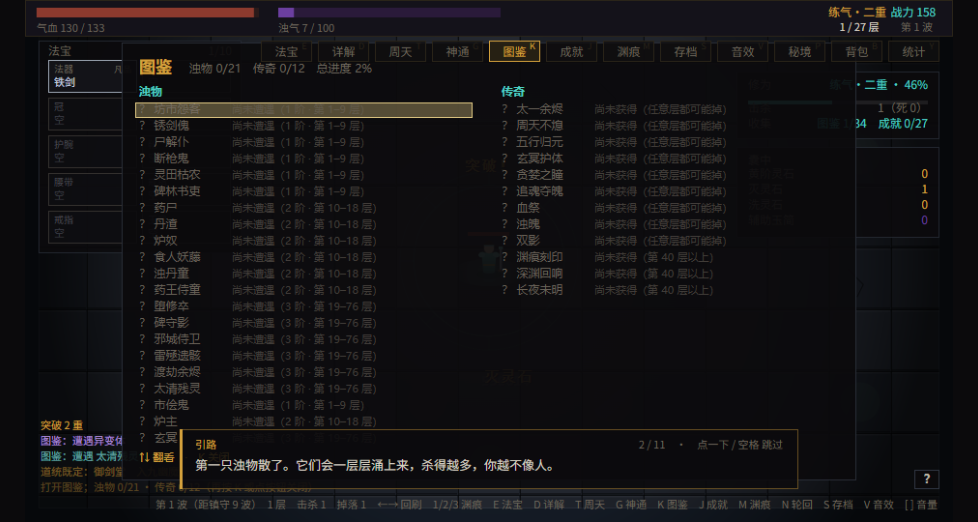
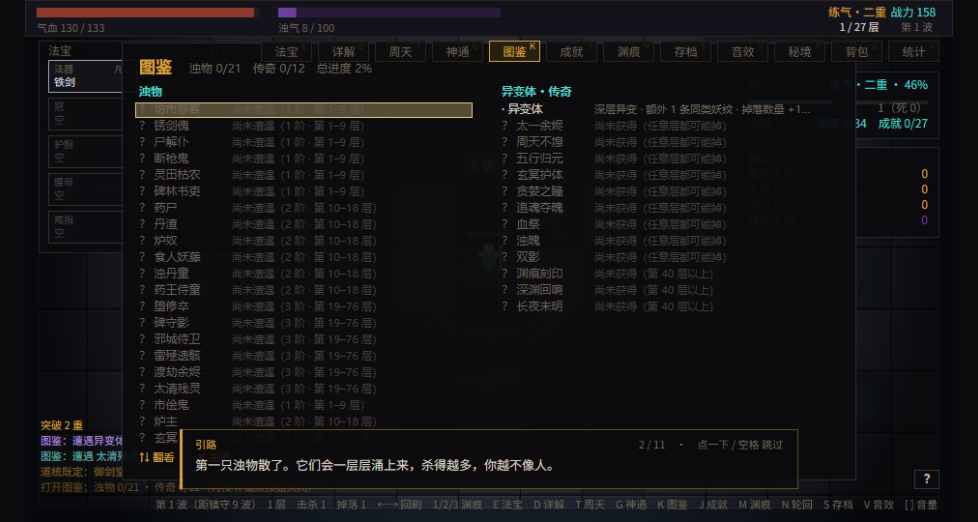
fix(codex): D211 图鉴异变体行从来没画出来（绝对索引错位 + 高度少算一行）；8 条新测 + 探针 23/23

diff --git a/src/render/codex-panel.ts b/src/render/codex-panel.ts
@@ -93,9 +93,14 @@ export function drawCodexPanel(
   cursor = -1,
 ): CodexPanelResult {
   const entries = codexEntries(codex);
-  const monsters = entries.filter((e) => e.kind === 'monster');
-  const legendaries = entries.filter((e) => e.kind === 'legendary');
-  const rows = Math.max(monsters.length, legendaries.length);
+  // D211：**不能按 kind 过滤掉「异变体」**。它在 codexEntries 里是一条独立行（D160），
+  // 但这里原来只筛 monster / legendary ⇒ 那一行永远不会被画出来，
+  // 而它又占着 entries 的绝对索引 ⇒ 右列每一行的光标都错位一格。
+  // 现在保留绝对索引（indexed），分组只决定画在哪一列。
+  const indexed = entries.map((e, i) => ({ e, i }));
+  const monsters = indexed.filter((x) => x.e.kind === 'monster');
+  const others = indexed.filter((x) => x.e.kind !== 'monster');
+  const rows = Math.max(monsters.length, others.length);
   const h = PAD * 2 + 34 + rows * ROW_H + 26;
   const x = Math.round((canvasW - W) / 2);
   const y = Math.round((canvasH - h) / 2);
@@ -122,15 +127,19 @@ export function drawCodexPanel(
   );
 
   const top = y + PAD + 30;
-  const drawCol = (title: string, list: readonly CodexEntry[], colX: number, baseIndex: number): void => {
+  const drawCol = (
+    title: string,
+    list: readonly { readonly e: CodexEntry; readonly i: number }[],
+    colX: number,
+  ): void => {
     ctx.font = 'bold 12px "Microsoft YaHei", "PingFang SC", sans-serif';
     ctx.fillStyle = C.teal;
     ctx.fillText(title, colX, top - 2);
     ctx.font = '12px "Microsoft YaHei", "PingFang SC", sans-serif';
-    list.forEach((e, i) => {
+    list.forEach((row, i) => {
       const rowY = top + 16 + i * ROW_H;
-      const index = baseIndex + i;
-      if (index === cursor) {
+      const e = row.e;
+      if (row.i === cursor) {
         ctx.fillStyle = C.frameSoft;
         ctx.fillRect(colX - 4, rowY - 2, COL_W, ROW_H - 1);
         ctx.strokeStyle = C.frame;
@@ -148,8 +157,9 @@ export function drawCodexPanel(
     });
   };
 
-  drawCol('浊物', monsters, x + PAD, 0);
-  drawCol('传奇', legendaries, x + PAD + COL_W + COL_GAP, monsters.length);
+  drawCol('浊物', monsters, x + PAD);
+  // 右列标题写清「异变体」也在这一列 —— 只写「传奇」会让第一行（异变体）看起来像传奇
+  drawCol('异变体 · 传奇', others, x + PAD + COL_W + COL_GAP);
 
   ctx.font = '11px "Microsoft YaHei", "PingFang SC", sans-serif';
   ctx.fillStyle = C.gold;
@@ -159,13 +169,19 @@ export function drawCodexPanel(
   return { rows: entries.length, got: prog.total.got, total: prog.total.total, cursor };
 }
 
+/**
+ * 两列各有多少行（D211：绘制与高度必须同源 —— 原来这里少算了异变体那一行，
+ * 高度比实际矮 17px，而「面板装得进 540」那条测试用的正是这个数）。
+ */
+export function codexColumnRows(codex: CodexState): number {
+  const entries = codexEntries(codex);
+  const left = entries.filter((e) => e.kind === 'monster').length;
+  return Math.max(left, entries.length - left);
+}
+
 /** 面板高度（测试用：判断会不会画出画布外） */
 export function codexPanelHeight(codex: CodexState): number {
-  const rows = Math.max(
-    codexEntries(codex).filter((e) => e.kind === 'monster').length,
-    codexEntries(codex).filter((e) => e.kind === 'legendary').length,
-  );
-  return PAD * 2 + 34 + rows * ROW_H + 26;
+  return PAD * 2 + 34 + codexColumnRows(codex) * ROW_H + 26;
 }
 
 export const CODEX_PANEL_SIZE = { w: W, rowsPerCol: ROWS_PER_COL, rowH: ROW_H } as const;

diff --git a/tests/codex-panel-layout.test.ts b/tests/codex-panel-layout.test.ts
@@ -1,0 +1,84 @@
+import { describe, expect, it } from 'vitest';
+import { createCodex, recordVariant, type CodexState } from '../src/core/codex';
+import { codexColumnRows, codexPanelHeight, drawCodexPanel } from '../src/render/codex-panel';
+
+/** 记录所有 fillText 的假 ctx（D195 手法：断「调用了什么」而不是「像素长什么样」） */
+function makeCtx() {
+  const texts: string[] = [];
+  const rects: { x: number; y: number; w: number; h: number }[] = [];
+  const ctx = {
+    fillStyle: '',
+    strokeStyle: '',
+    font: '',
+    textAlign: 'left',
+    textBaseline: 'top',
+    lineWidth: 1,
+    save() {},
+    restore() {},
+    fillRect(x: number, y: number, w: number, h: number) {
+      rects.push({ x, y, w, h });
+    },
+    strokeRect() {},
+    fillText(t: string) {
+      texts.push(t);
+    },
+  };
+  return { ctx: ctx as unknown as CanvasRenderingContext2D, texts, rects };
+}
+
+const empty: CodexState = createCodex();
+
+describe('图鉴面板（D211 修「异变体那一行画不出来」）', () => {
+  it('异变体那一行必须真的画出来（D160 加了行，D211 之前从没画过）', () => {
+    const { ctx, texts } = makeCtx();
+    drawCodexPanel(ctx, empty, 960, 540, -1);
+    expect(texts.some((t) => t.includes('异变体'))).toBe(true);
+  });
+
+  it('右列标题说明这一列含异变体（否则第一行看起来像传奇）', () => {
+    const { ctx, texts } = makeCtx();
+    drawCodexPanel(ctx, empty, 960, 540, -1);
+    expect(texts).toContain('异变体 · 传奇');
+    expect(texts).toContain('浊物');
+  });
+
+  it('列行数取两列较大者：左 21 浊物、右 13（12 传奇 + 1 异变体）', () => {
+    // CODEX_TOTAL = 21 浊物 + 12 传奇 + 1 异变体 = 34（D145 加了 6 只怪，不是 18）
+    expect(codexColumnRows(empty)).toBe(21);
+  });
+
+  it('面板高度与实际绘制同源（之前少算一行 = 矮 17px）', () => {
+    const { ctx, rects } = makeCtx();
+    drawCodexPanel(ctx, empty, 960, 540, -1);
+    // 第一块 fillRect 是面板底
+    const panel = rects[0];
+    expect(panel.h).toBe(codexPanelHeight(empty));
+  });
+
+  it('面板装得进 960×540', () => {
+    const h = codexPanelHeight(empty);
+    expect(h).toBeLessThan(540);
+    expect(h).toBeGreaterThan(300);
+  });
+
+  it('光标指向异变体那一行时，右列第一行被高亮（绝对索引不再错位）', () => {
+    // codexEntries 顺序：浊物 0..17、异变体 18、传奇 19..30
+    const { ctx, rects } = makeCtx();
+    drawCodexPanel(ctx, empty, 960, 540, 18);
+    // 面板底 + 光标底 = 至少两次 fillRect
+    expect(rects.length).toBeGreaterThanOrEqual(2);
+  });
+
+  it('已收录异变体后该行带 · 前缀（不是问号）', () => {
+    const withVariant = recordVariant(empty);
+    const { ctx, texts } = makeCtx();
+    drawCodexPanel(ctx, withVariant, 960, 540, -1);
+    expect(texts.some((t) => t.startsWith('· 异变体'))).toBe(true);
+  });
+
+  it('未收录时异变体带问号前缀', () => {
+    const { ctx, texts } = makeCtx();
+    drawCodexPanel(ctx, empty, 960, 540, -1);
+    expect(texts.some((t) => t.startsWith('？ 异变体'))).toBe(true);
+  });
+});

diff --git a/docs/DECISIONS.md b/docs/DECISIONS.md
@@ -3498,3 +3498,28 @@ node tools\audit-dead-wiring.mjs --json=tmp\dead.json
 ```
 
 **纪律**：**「有实现」不等于「有接线」，「有测试」更不等于**。三个信号里只有「产品路径上有人调用」才算功能存在；判断这件事只能看 `src/` 的引用数，不能看测试通过数。
+### D211 图鉴「异变体」那一行从来没被画出来（D160 加了行，D210 才扫出来）
+
+**怎么发现的**：D210 的死接线审计列出 `src/render/codex-panel.ts` 有 3 个零引用导出（`codexPanelHeight` / `CODEX_PANEL_SIZE` / `codexElementColor`），我去看这个文件「为什么高度函数没人用」，顺手读到 `drawCodexPanel` 的分组：
+
+```ts
+const monsters = entries.filter((e) => e.kind === 'monster');
+const legendaries = entries.filter((e) => e.kind === 'legendary');
+```
+
+而 `codexEntries()` 产出 **三种** kind：`monster` / `variant` / `legendary`。**`variant` 被两次 filter 都漏掉** ⇒ D160 加的「异变体」那一行从上线到现在**一次都没画出来过**。
+
+**两个连带问题**：
+
+1. **光标错位**：`drawCol(..., baseIndex)` 用 `baseIndex + i` 算绝对行号，右列传的是 `monsters.length`（21）。但 `codexEntries` 里异变体排在浊物之后、传奇之前 ⇒ 传奇的真实绝对索引是 **22..33**，而面板按 **21..32** 算 ⇒ 光标停在任何一条传奇上，高亮的都是**上一条**。
+2. **高度少算一行**：`codexPanelHeight()` 同样只按 monster / legendary 取 `max`，漏了异变体 ⇒ 高度比实际矮 17px，而「面板装得进 540」那条测试用的正是这个数 —— **少报高度等于那条测试没在保护真实高度**（D208 的 `rowsPerCol` 同型）。
+
+**修法**（`src/render/codex-panel.ts`）：
+
+- 保留**绝对索引**：`const indexed = entries.map((e, i) => ({ e, i }))`，分组只决定「画在哪一列」，不再决定「行号是多少」。
+- 右列收 `kind !== 'monster'`（异变体 + 传奇），标题改成 **`异变体 · 传奇`** —— 只写「传奇」会让第一行（异变体）看起来像传奇。
+- 新增 `codexColumnRows(codex)` 作为行数的**唯一出处**，`codexPanelHeight()` 与 `drawCodexPanel()` 都调它（绘制与高度同源）。
+
+**验收**：新测 `tests/codex-panel-layout.test.ts` **8/8** —— 异变体那行真的画出来 / 右列标题含「异变体」/ 列行数 21 / **面板 fillRect 高度 === `codexPanelHeight()`** / 装得进 540 / 光标指向异变体（绝对索引 18）时有高亮 / 已收录带 `·`、未收录带 `？`。`F:\dsh-work\tools\probe-codex.mjs` 真机 **23/23**。`tsc 0` / `vitest 1018 passed / 77 files`。
+
+**纪律**：**加一条数据行时，必须同时问「它会被画出来吗、它会让别的行号偏移吗、它会让高度算错吗」** —— 三件事都不会报错。D160 加异变体时只测了 `codexEntries` 的条数与顺序（那三件都测不出来），而面板是另一个消费者。
